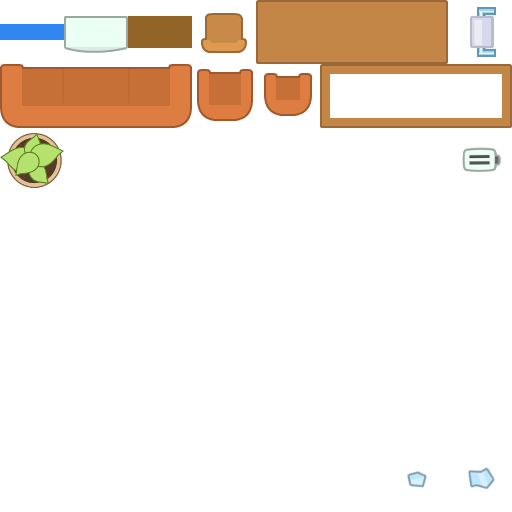
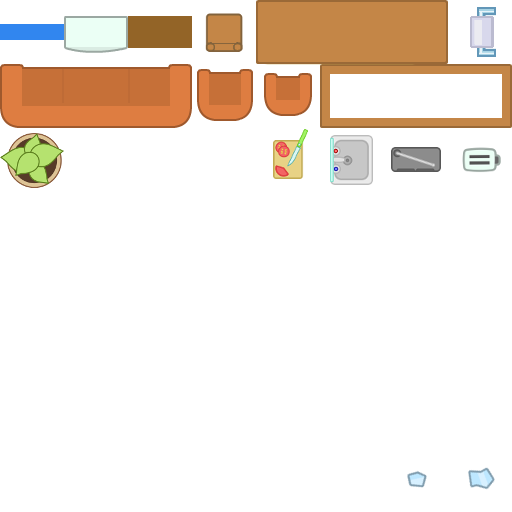
Added a bunch of new objects { toaster, radio, sink, cutting board }

Changed region(s): [[0.5312, 0.25, 0.875, 0.375], [0.375, 0.0312, 0.5, 0.125], [0.4062, 0.0, 0.4688, 0.0312]]

diff --git a/src/core/map/entity/EntityFurniture.h b/src/core/map/entity/EntityFurniture.h
@@ -6,6 +6,7 @@
 #define C003_ENTITYFURNITURE_H
 
 #include "EntityMoving.h"
+#include <core/map/block/SimpleBlock.h>
 
 class EntityFurniture : public EntityMoving {
 public:
@@ -49,6 +50,54 @@ public:
 
         this->body->CreateFixture(&fixDef);
     }
+};
+
+class EntityToaster : public EntityFurniture {
+public:
+    EntityToaster(Map *map) : EntityFurniture(map, 0.25, 0.1875, 23) { }
+
+    virtual bool doesCollide(IPositionable *obj) override {
+        if (SimpleBlock *b = dynamic_cast<SimpleBlock *>(obj)) {
+            if (b->getTexPos() >= 29 && b->getTexPos() <= 31) {
+                return false;
+            }
+        }
+        return Entity::doesCollide(obj);
+    }
+
+    virtual ~EntityToaster() override { }
+};
+
+class EntityRadio : public EntityFurniture {
+public:
+    EntityRadio(Map *map) : EntityFurniture(map, 0.4, 0.2, 22) { }
+
+    virtual ~EntityRadio() override { }
+};
+
+class EntitySink : public EntityFurniture {
+public:
+    EntitySink(Map *map) : EntityFurniture(map, 0.33, 0.4, 21) {
+        this->body->GetFixtureList()[0].SetDensity(100.0f);
+    }
+
+    virtual ~EntitySink() override { }
+};
+
+class EntityCuttingBoard : public EntityFurniture {
+public:
+    EntityCuttingBoard(Map *map) : EntityFurniture(map, 0.23, 0.33, 20) { }
+
+    virtual bool doesCollide(IPositionable *obj) override {
+        if (SimpleBlock *b = dynamic_cast<SimpleBlock *>(obj)) {
+            if (b->getTexPos() >= 29 && b->getTexPos() <= 31) {
+                return false;
+            }
+        }
+        return Entity::doesCollide(obj);
+    }
+
+    virtual ~EntityCuttingBoard() override { }
 };
 
 #endif //C003_ENTITYFURNITURE_H

diff --git a/src/core/map/Map.cpp b/src/core/map/Map.cpp
@@ -84,6 +84,10 @@ void Map::saveEntities() {
             else if (EntityArmchair *p = dynamic_cast<EntityArmchair *>(e)) id = 14;
             else if (EntityPouf *p = dynamic_cast<EntityPouf *>(e)) id = 15;
             else if (EntityFlowerPot *p = dynamic_cast<EntityFlowerPot *>(e)) id = 16;
+            else if (EntityToaster *p = dynamic_cast<EntityToaster *>(e)) id = 17;
+            else if (EntityRadio *p = dynamic_cast<EntityRadio *>(e)) id = 18;
+            else if (EntitySink *p = dynamic_cast<EntitySink *>(e)) id = 19;
+            else if (EntityCuttingBoard *p = dynamic_cast<EntityCuttingBoard *>(e)) id = 20;
             else continue;
             myfile << id << "," << e->getX() << "," << e->getY() << "," << e->getAngle();
             if (i != this->getEntities().size() - 1) {

diff --git a/src/core/map/TiledTxtMapLoader.h b/src/core/map/TiledTxtMapLoader.h
@@ -149,6 +149,18 @@ TiledTxtMapLoader::TiledTxtMapLoader(const std::string &fileName) {
                     case 16:
                         sshape = new EntityFlowerPot(this->map);
                         break;
+                    case 17:
+                        sshape = new EntityToaster(this->map);
+                        break;
+                    case 18:
+                        sshape = new EntityRadio(this->map);
+                        break;
+                    case 19:
+                        sshape = new EntitySink(this->map);
+                        break;
+                    case 20:
+                        sshape = new EntityCuttingBoard(this->map);
+                        break;
                     default:
                         break;
 
